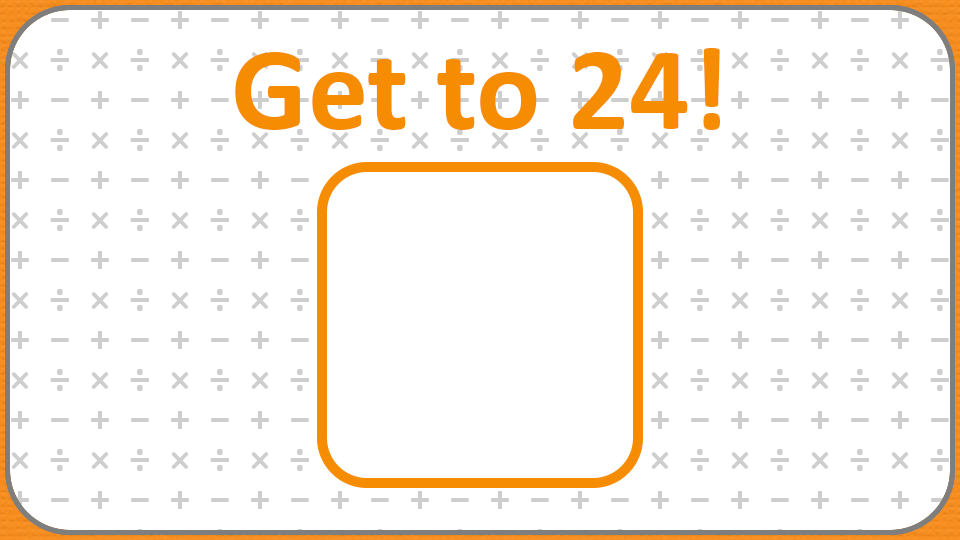
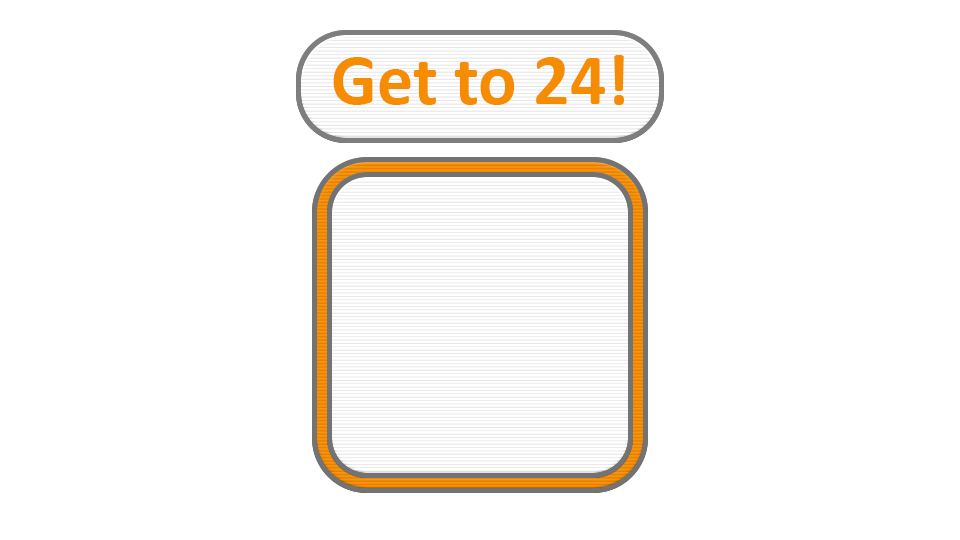
most recent achievement progress

diff --git a/js/stateLogic.js b/js/stateLogic.js
@@ -14,23 +14,16 @@ function update(dt) {
 	gameArea.entities[0].index -= 0.0005;
 
 	switch (gameArea.state) {
-		// case 0: //main menu
-		// 	if (gameArea.entities[0].index - 0.0005 < 0) {
-		// 		gameArea.entities[0].index = 0.9995;
-		// 	}
-		// 	gameArea.entities[0].index -= 0.0005;
-
-		// 	break;
 
 		case 1: //time attack logic
 
 			gameArea.refTime += dt;
 
 			/*Naive animation update for preloading screen*/
-			if (gameArea.refTime > 1 && gameArea.entities.length == 2 && gameArea.entities[1].index < gameArea.entities[1].frames - 1) {
+			if (gameArea.refTime > 1 && gameArea.entities.length == 4 && gameArea.entities[2].index < gameArea.entities[2].frames - 1) {
 				gameArea.refTime -= 1;
-				gameArea.entities[1].index += 1;
-			} else if (gameArea.refTime > 1 && gameArea.entities.length == 2 && gameArea.entities[1].index == gameArea.entities[1].frames - 1) {
+				gameArea.entities[2].index += 1;
+			} else if (gameArea.refTime > 1 && gameArea.entities.length == 4 && gameArea.entities[2].index == gameArea.entities[2].frames - 1) {
 				gameArea.clear();
 				gameArea.refTime = 0;
 				gameArea.loaded = load.gameScreen();
@@ -83,9 +76,34 @@ function update(dt) {
 							gameArea.strings[0].parameter = Math.floor(gameArea.refTime) + "." + (Math.floor(gameArea.refTime * 10) % (Math.floor(gameArea.refTime) * 10));
 							gameArea.strings[1].parameter = gameArea.score;
 							if (gameArea.difficulty == 0) {
-								validateSetFastestTimeEasy(gameArea.strings[0].parameter);
+								if (gameArea.refTime < 180 && checkTime3Easy() == false) {
+									unlockTime3Easy();
+								}
+								if (gameArea.refTime < 120 && checkTime2Easy() == false) {
+									unlockTime2Easy();
+								}
+								if (gameArea.refTime < 60 && checkTime1Easy() == false) {
+									unlockTime1Easy();
+								}
 							} else {
-								validateSetFastestTimeHard(gameArea.strings[0].parameter);
+								if (gameArea.refTime < 180 && checkTime3Hard() == false) {
+									unlockTime3Hard();
+								}
+								if (gameArea.refTime < 120 && checkTime2Hard() == false) {
+									unlockTime2Hard();
+								}
+								if (gameArea.refTime < 60 && checkTime1Hard() == false) {
+									unlockTime1Hard();
+								}
+								if (gameArea.refTime < 180 && checkTime3Easy() == false) {
+									unlockTime3Easy();
+								}
+								if (gameArea.refTime < 120 && checkTime2Easy() == false) {
+									unlockTime2Easy();
+								}
+								if (gameArea.refTime < 60 && checkTime1Easy() == false) {
+									unlockTime1Easy();
+								}
 							}
 						} else {
 							gameArea.entities[10].index = gameArea.score;							
@@ -162,6 +180,8 @@ function update(dt) {
 
 					if (validate(gameArea.strings[1].parameter, gameArea.strings[2].parameter, gameArea.strings[3].parameter, gameArea.strings[4].parameter, gameArea.droppable[0].parameter, gameArea.droppable[1].parameter, gameArea.droppable[2].parameter)) {
 
+
+
 						sfx[3].play();
 
 						gameArea.entities[3].index = 1;
@@ -169,10 +189,40 @@ function update(dt) {
 						gameArea.entities[3].ticks = 1;
 
 						gameArea.score += 1;
+
+						if (gameArea.score == 10 && checkCombo1() == false) {
+							unlockCombo1();
+						}
+						if (gameArea.score == 25 && checkCombo2() == false) {
+							unlockCombo2();
+						}
+						if (gameArea.score == 50 && checkCombo3() == false) {
+							unlockCombo3();
+						}
+						if (gameArea.score == 100 && checkCombo4() == false) {
+							unlockCombo4();
+						}
+						if (calcScore(diff/icultyCurve(gameArea.score + 1, gameArea.difficulty), gameArea.problemTime, gameArea.combo) == 666 && checkSatan() == false) {
+							unlockSatan();
+						}
+						if (calcScore(difficultyCurve(gameArea.score + 1, gameArea.difficulty), gameArea.problemTime, gameArea.combo) == 1337 && checkLEET() == false) {
+							unlockLEET();
+						}
+
 						gameArea.scoreTotal += calcScore(difficultyCurve(gameArea.score + 1, gameArea.difficulty), gameArea.problemTime, gameArea.combo);
 						gameArea.problemTime = 0;
 						gameArea.refTime += calcTime(gameArea.score);
 						gameArea.strings[5].parameter = gameArea.scoreTotal;
+
+						if (gameArea.scoreTotal >= 1000000 && checkMillionaire() == false && gameArea.diffficult == 1) {
+							unlockMillionaire();
+						}
+						if (gameArea.scoreTotal >= 5280 && checkMileHighClub() == false) {
+							unlockMileHighClub();
+						}
+						if (gameArea.score == 24 && checkJackBauer() == false) {
+							unlockJackBauer();
+						}
 
 						getProblem(difficultyCurve(gameArea.score + 1, gameArea.difficulty), gameArea.difficulty);
 						for (var i = 0; i < gameArea.droppable.length; i++) {
@@ -226,16 +276,16 @@ function update(dt) {
 				}
 
 			/*Naive animation update for preloading screen*/
-			} else if (gameArea.refTime < 0 && gameArea.entities.length == 2 && gameArea.entities[1].index == 2) {//Pre-load screen
+			} else if (gameArea.refTime < 0 && gameArea.entities.length == 4 && gameArea.entities[2].index == 2) {//Pre-load screen
 				gameArea.clear();
 				gameArea.refTime = 24;
 				gameArea.loaded = load.gameScreen();
 				gameArea.parse();
 				getProblem(difficultyCurve(gameArea.score + 1, gameArea.difficulty), gameArea.difficulty);
-			} else if (gameArea.refTime < 1 && gameArea.entities.length == 2 && gameArea.entities[1].index == 1) {//Pre-load screen
-				gameArea.entities[1].index += 1;
-			} else if (gameArea.refTime < 2 && gameArea.entities.length == 2 && gameArea.entities[1].index == 0) {//Pre-load screen
-				gameArea.entities[1].index += 1;
+			} else if (gameArea.refTime < 1 && gameArea.entities.length == 4 && gameArea.entities[2].index == 1) {//Pre-load screen
+				gameArea.entities[2].index += 1;
+			} else if (gameArea.refTime < 2 && gameArea.entities.length == 4 && gameArea.entities[2].index == 0) {//Pre-load screen
+				gameArea.entities[2].index += 1;
 			}
 
 			break;

diff --git a/js/screenLoader.js b/js/screenLoader.js
@@ -489,6 +489,15 @@ function Loader() {//Load constructor
 		this.clear();
 
 		var background = {
+			src : "./assets/menuAssets/background.png",
+			width : 960,
+			height : 540,
+			xPos : 0,
+			yPos : 0,
+			index: 0
+		}
+
+		var pregame = {
 			src : "./assets/preGameAssets/pregame.png",
 			width : 960,
 			height : 540,
@@ -508,7 +517,16 @@ function Loader() {//Load constructor
 			frames : 3
 		}
 
-		this.entities.push(background, countSprite);
+		var border = {
+			src : "./assets/settingsAssets/border.png",
+			width : 960,
+			height : 540,
+			xPos : 0,
+			yPos : 0,
+			index: 0
+		}
+
+		this.entities.push(background, pregame, countSprite, border);
 		this.fill();
 
 		return this.loaded;
@@ -952,22 +970,13 @@ function Loader() {//Load constructor
 			}
 		}
 
-		var settingsTitle = {
-			src : "./assets/settingsAssets/settingsLabel.png",
-			width : 392,
-			height : 110,
-			xPos : 284,
-			yPos : 48,
-			index : 0
-		}
-
-		var difficultyWindow = {
-			src : "./assets/settingsAssets/difficultyWindow.png",
-			width : 365,
-			height : 180,
-			xPos : 84,
-			yPos : 225,
-			index : 0
+		var settings = {
+			src : "./assets/settingsAssets/settings.png",
+			width : 960,
+			height : 540,
+			xPos : 0,
+			yPos : 0,
+			index: 0
 		}
 
 		var difficultyOptions = {
@@ -995,7 +1004,7 @@ function Loader() {//Load constructor
 			clicked : function() {
 				sfx[0].play();
 				if (gameArea.difficulty == 1) {
-					gameArea.entities[5].index = 0;
+					gameArea.entities[4].index = 0;
 					gameArea.difficulty = 0;
                     setCookie("difficulty", "0", -1);
 				}
@@ -1011,21 +1020,11 @@ function Loader() {//Load constructor
 			clicked : function() {
 				sfx[0].play();
 				if (gameArea.difficulty == 0) {
-					gameArea.entities[5].index = 1;
+					gameArea.entities[4].index = 1;
 					gameArea.difficulty = 1;
                     setCookie("difficulty", "1", 30);
 				}
 			}
-		}
-
-
-		var audioWindow = {
-			src : "./assets/settingsAssets/audioWindow.png",
-			width : 365,
-			height : 180,
-			xPos : 515,
-			yPos : 225,
-			index : 0
 		}
 
 		var audioOptions = {
@@ -1055,7 +1054,7 @@ function Loader() {//Load constructor
 				if (!gameArea.sound) {
 					gameArea.sound = true;
                     setCookie("sound", "", -1);
-					gameArea.entities[7].index = 0;
+					gameArea.entities[5].index = 0;
 					sfx[0].play();
 					music[0].play();
 				}
@@ -1076,13 +1075,13 @@ function Loader() {//Load constructor
 					music[0].stop();
 					gameArea.sound = false;
                     setCookie("sound", "false", 30);
-					gameArea.entities[7].index = 1;
+					gameArea.entities[5].index = 1;
 				}
 			}
 		}
 
 
-		this.entities.push(background, border, quitImage, settingsTitle, difficultyWindow, difficultyOptions, audioWindow, audioOptions);
+		this.entities.push(background, border, quitImage, settings, difficultyOptions, audioOptions);
 		this.clickable.push(quitBox, easyBox, hardBox, onBox, offBox);
 		this.fill();
 
@@ -1104,6 +1103,15 @@ function Loader() {//Load constructor
 
 		var border = {
 			src : "./assets/settingsAssets/border.png",
+			width : 960,
+			height : 540,
+			xPos : 0,
+			yPos : 0,
+			index: 0
+		}
+
+		var leaderboard = {
+			src : "./assets/leaderboardAssets/leaderboard.png",
 			width : 960,
 			height : 540,
 			xPos : 0,
@@ -1334,7 +1342,7 @@ function Loader() {//Load constructor
 			colour : "#5C5C5C"
 		}
 
-		this.entities.push(background, quitImage, border);
+		this.entities.push(background, quitImage, border, leaderboard);
 		this.clickable.push(quitBox);
 		this.strings.push(easyTime1, easyTime2, easyTime3, easyTime4, easyTime5, hardTime1, hardTime2, hardTime3, hardTime4, hardTime5, easyMara1, easyMara2, easyMara3, easyMara4, easyMara5, hardMara1, hardMara2, hardMara3, hardMara4, hardMara5);
 		this.fill();
@@ -1356,6 +1364,15 @@ function Loader() {//Load constructor
 
 		var border = {
 			src : "./assets/settingsAssets/border.png",
+			width : 960,
+			height : 540,
+			xPos : 0,
+			yPos : 0,
+			index: 0
+		}
+
+		var guide = {
+			src : "./assets/guideAssets/guide.png",
 			width : 960,
 			height : 540,
 			xPos : 0,
@@ -1386,7 +1403,7 @@ function Loader() {//Load constructor
 			}
 		}
 
-		this.entities.push(background, quitImage, border);
+		this.entities.push(background, quitImage, border, guide);
 		this.clickable.push(quitBox);
 		this.fill();
 
